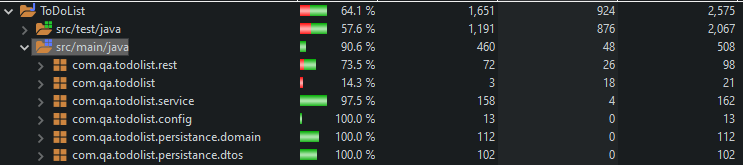
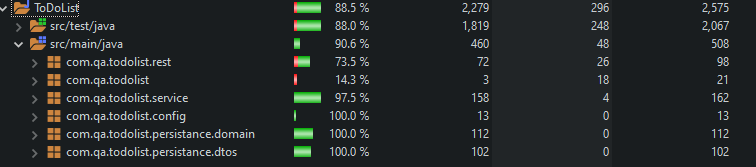
updated Readme.md

diff --git a/src/test/java/com/qa/todolist/seleniumTesting/ToDo/ToDoSeleniumTesting.java b/src/test/java/com/qa/todolist/seleniumTesting/ToDo/ToDoSeleniumTesting.java
@@ -41,7 +41,7 @@ public class ToDoSeleniumTesting {
 		System.setProperty("webdriver.chrome.driver", "src/main/resources/drivers/chromedriver.exe");
 
 		ChromeOptions config = new ChromeOptions();
-		config.setHeadless(!true);// this stops the window pop up if true - this can reduce the time of the
+		config.setHeadless(true);// this stops the window pop up if true - this can reduce the time of the
 									// runtime test
 		driver = new ChromeDriver(config);
 		driver.manage().window().setSize(new Dimension(1366, 786)); // sets the size of the window that runs the test
@@ -61,7 +61,7 @@ public class ToDoSeleniumTesting {
 		report.close();
 		
 	}
-	@Disabled
+	
 	@Test
 	public void createToDo() {
 		
@@ -93,7 +93,7 @@ public class ToDoSeleniumTesting {
 		//assertions
 		assertThat(result.concat(expected));
 	}
-	@Disabled
+	
 	@Test
 	public void updateToDo() {
 		
@@ -132,7 +132,7 @@ public class ToDoSeleniumTesting {
 		//assert
 		assertThat(result.contains(expected));
 	}
-	@Disabled
+	
 	@Test
 	public void readToDo() {
 		
@@ -167,7 +167,7 @@ public class ToDoSeleniumTesting {
 		assertThat(result.contains(expected));
 		
 	}
-	@Disabled
+	
 	@Test
 	public void readAllToDo() {
 		

diff --git a/src/test/java/com/qa/todolist/seleniumTesting/Task/TaskSeleniumTest.java b/src/test/java/com/qa/todolist/seleniumTesting/Task/TaskSeleniumTest.java
@@ -65,7 +65,7 @@ public class TaskSeleniumTest {
 		report.close();
 
 	} 
-	@Disabled
+	
 	@Test
 	public void createTask() {
 		test = report.startTest("Create Task Test");
@@ -117,7 +117,7 @@ public class TaskSeleniumTest {
 		
 		
 	}
-	@Disabled
+	
 	@Test
 	public void updateTest() {
 		test = report.startTest("Update Task Test");
@@ -172,7 +172,7 @@ public class TaskSeleniumTest {
 				assertEquals(expected, result);
 		
 	}
-	@Disabled
+	
 	@Test
 	public void readByIdTest() {
 		test = report.startTest("Read Individual Task Test");
@@ -207,7 +207,7 @@ public class TaskSeleniumTest {
 		assertThat(result.contains(expected));
 	
 	}
-	@Disabled
+	
 	@Test
 	public void readAllTest() {
 		test = report.startTest("Read All Task Test");

diff --git a/README.md b/README.md
@@ -1,27 +1,30 @@
-Coverage: 
+Coverage: Currently at 90.6% on the src/main.
+
+![](ProjectResources/CurrentTesting.png)
 
 
 # To Do List Project
 
-This is a simple To-Do list project that enables the user to interact with a webpage and perfrom simple CRUD functionality.
-This project allowed me to explore further technologies...
-The project document folder contains...
+This is a simple To-Do list project that enables the user to interact with a webpage and perform simple CRUD functionality.  
+This project allowed me to explore further technologies such as SpringBoot - as well as the front end tech with entails JavaScript and HTML.  
+The project document folder contains my risk assessment, PPT, and certain relevant images  with repect to the project.  
 
 
 ## Getting Started
 
-The below instructions will get you a version of the project up and running in a local environment for developing and testinf purposes, see the deployment section for further details about the live environment.
+The below instructions will get you a version of the project up and running in a local environment for developing and testing purposes.  
+
 
 
 
 ### Prerequisites
 
-(add links)
-postman
-springboot
-GCP
-Java
-Maven
+
+* [Postman](https://www.postman.com/downloads/)  
+* [Spring](https://spring.io/tools)   
+* [Java](https://www.java.com/en/download/)  
+* [Maven](https://maven.apache.org/index.html)   
+* [Git](https://git-scm.com/downloads)  
 
 
 ### Installing
